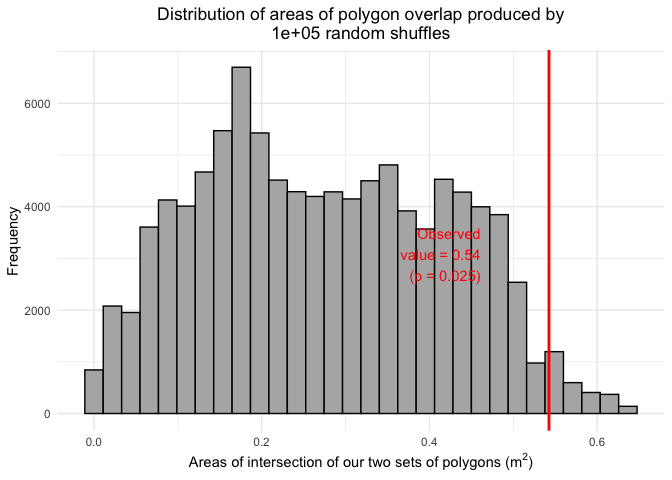
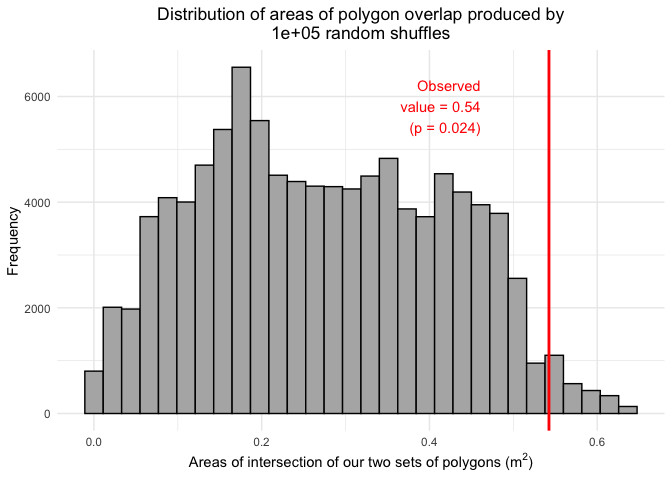
update readme

diff --git a/README.md b/README.md
@@ -85,7 +85,7 @@ our bounding box area. We repeat this random shuffle many times, and
 save the locations of the polygons for each random shuffle event:
 
 ``` r
-# This may take a minute or two
+# This may take a few minutes
 
  n <- 100000
 
@@ -128,7 +128,7 @@ pval <- 1 - sum(areas_of_overlap_from_random_shuffle$area <=
  
 ```
 
-Using this p-vaue we can say that 2.55% of our randomly-shuffled input
+Using this p-vaue we can say that 2.423% of our randomly-shuffled input
 shapefiles result in an overlap with the other shapefiles that is equal
 to or greater than our observed overlap area. With such a tiny
 proportion of the random distribution equal to or greater than our
@@ -142,10 +142,31 @@ this:
 
 ``` r
 # Plot results
-plot_overlap_distribution(areas_of_overlap_from_random_shuffle,
-                         observed_polygon_overlap,
-                         n,
-                         pval)
+  ggplot(areas_of_overlap_from_random_shuffle) +
+  aes(x = area) +
+    geom_histogram(bins = 30, 
+                   fill = "gray70", 
+                   color = "black") +
+    labs(
+      x = expression("Areas of intersection of our two sets of polygons (m"^2*")"),
+      y = "Frequency",
+      title = paste0("Distribution of areas of polygon overlap produced by\n",
+                     n, " random shuffles")
+    ) +
+    geom_vline(xintercept = observed_polygon_overlap, 
+               col = "red", 
+               linewidth = 1) +
+    annotate("text",
+             x = observed_polygon_overlap * 0.85,
+             y = max(table(cut(areas_of_overlap_from_random_shuffle$area,
+                               30))) * 0.95,
+             label = paste0("Observed\nvalue = ",
+                            round(observed_polygon_overlap, 2),
+                            "\n(p = ", round(pval, 3), ")"),
+             col = "red",
+             hjust = 1) +
+    theme_minimal() +
+    theme(plot.title = element_text(hjust = 0.5))
 ```
 
 <img src="man/figures/README-unnamed-chunk-7-1.png" width="100%" />
